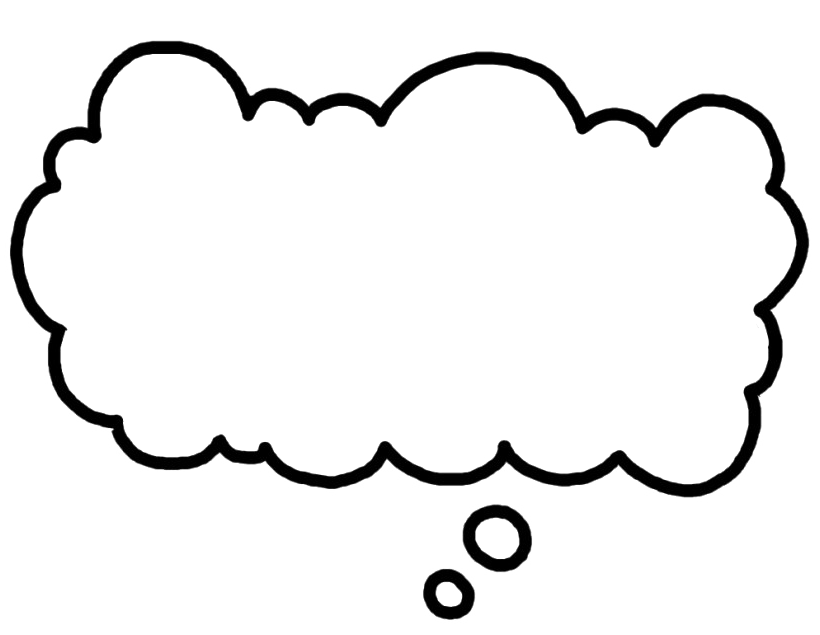
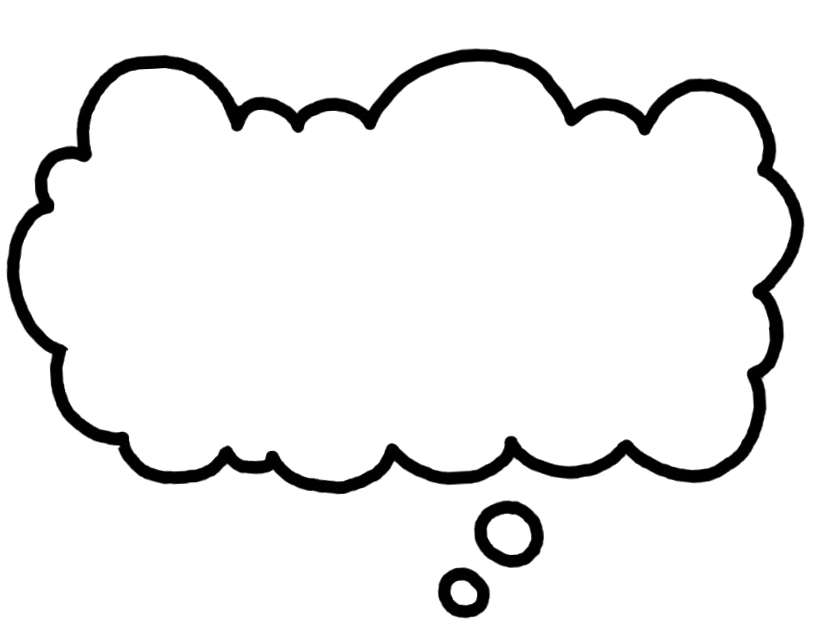
Added ability to move speech bubbles around. Strange jump occurs not sure on cause. Will try to fix. Mostly working though

Changed region(s): [[0.0, 0.0598, 1.0, 0.9874]]

diff --git a/src/sample/ComicPanel.java b/src/sample/ComicPanel.java
@@ -1,24 +1,18 @@
 package sample;
 
 import javafx.event.EventHandler;
-import javafx.scene.canvas.Canvas;
-import javafx.scene.canvas.GraphicsContext;
-import javafx.scene.chart.Axis;
-import javafx.scene.effect.ColorAdjust;
 import javafx.scene.image.*;
-import javafx.scene.input.MouseButton;
 import javafx.scene.input.MouseEvent;
 import javafx.scene.layout.BorderPane;
 import javafx.scene.layout.Pane;
 import javafx.scene.paint.Color;
-import javafx.scene.text.Text;
 import javafx.scene.transform.Rotate;
 
-import javax.swing.plaf.PanelUI;
 import java.io.FileInputStream;
 import java.io.FileNotFoundException;
 import java.math.BigDecimal;
 import java.math.RoundingMode;
+import java.util.concurrent.atomic.AtomicBoolean;
 
 public class ComicPanel extends Pane {
 
@@ -468,6 +462,29 @@ public class ComicPanel extends Pane {
             }
         }
 
+        leftTextBubble.getChildren().get(0).setOnMousePressed(pressEvent -> {
+            leftTextBubble.getChildren().get(0).setOnMouseDragged(dragEvent -> {
+
+                double offsetX = dragEvent.getScreenX() - pressEvent.getSceneX() + 50;
+                double offsetY = dragEvent.getScreenY() - pressEvent.getSceneY() + 30;
+
+                if(offsetX > this.getTranslateX() + 350 - leftTextBubble.getWidth())
+                    offsetX = this.getTranslateX() + 350 - leftTextBubble.getWidth();
+
+                if(offsetX < this.getTranslateX())
+                    offsetX = this.getTranslateX();
+
+                if(offsetY > this.getTranslateY() + 260 - leftTextBubble.getHeight())
+                    offsetY = this.getTranslateY() + 260 - leftTextBubble.getHeight();
+
+                if(offsetY < this.getTranslateY() + 5)
+                    offsetY = this.getTranslateY() + 5;
+
+                leftTextBubble.setTranslateX(offsetX);
+                leftTextBubble.setTranslateY(offsetY);
+            });
+        });
+
         leftTextBubble.setTranslateX(this.getTranslateX() + 50);
         this.getChildren().add(leftTextBubble);
     }
@@ -529,6 +546,29 @@ public class ComicPanel extends Pane {
                 rightTextBubble.getText().setTranslateY(imageView.getTranslateY() + 42);
             }
         }
+
+        rightTextBubble.getChildren().get(0).setOnMousePressed(pressEvent -> {
+            rightTextBubble.getChildren().get(0).setOnMouseDragged(dragEvent -> {
+
+                double offsetX = dragEvent.getScreenX() - pressEvent.getSceneX() + 150;
+                double offsetY = dragEvent.getScreenY() - pressEvent.getSceneY() + 30;
+
+                if(offsetX > this.getTranslateX() + 350 - rightTextBubble.getWidth())
+                    offsetX = this.getTranslateX() + 350 - rightTextBubble.getWidth();
+
+                if(offsetX < this.getTranslateX())
+                    offsetX = this.getTranslateX();
+
+                if(offsetY > this.getTranslateY() + 260 - rightTextBubble.getHeight())
+                    offsetY = this.getTranslateY() + 260 - rightTextBubble.getHeight();
+
+                if(offsetY < this.getTranslateY() + 5)
+                    offsetY = this.getTranslateY() + 5;
+
+                rightTextBubble.setTranslateX(offsetX);
+                rightTextBubble.setTranslateY(offsetY);
+            });
+        });
 
         rightTextBubble.setTranslateX(this.getTranslateX() + 150);
         this.getChildren().add(rightTextBubble);
